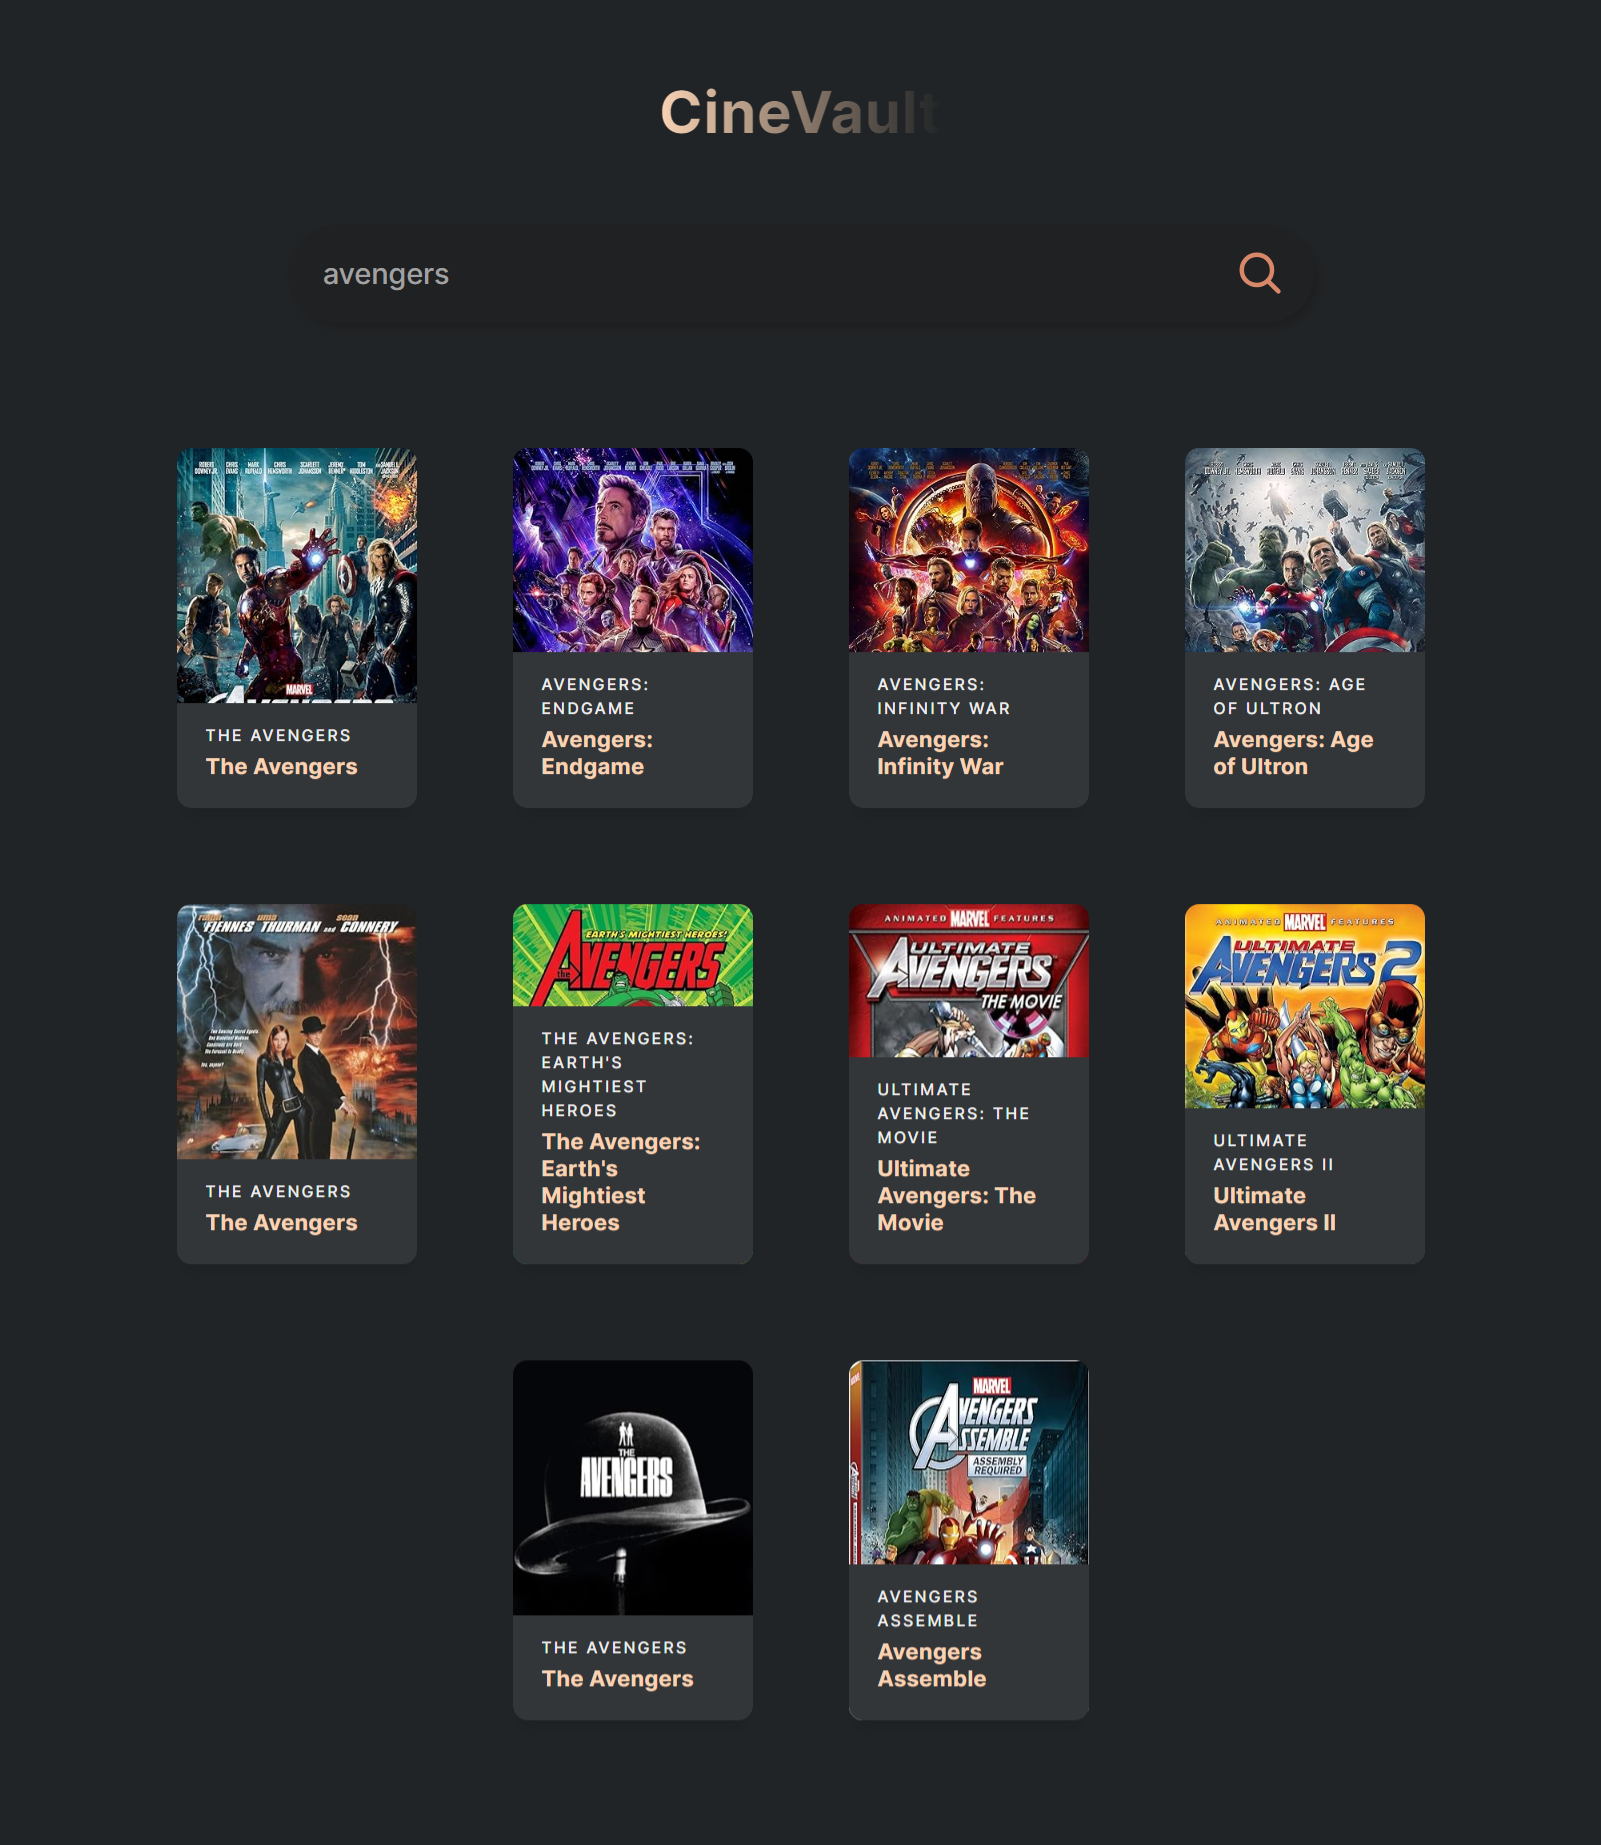
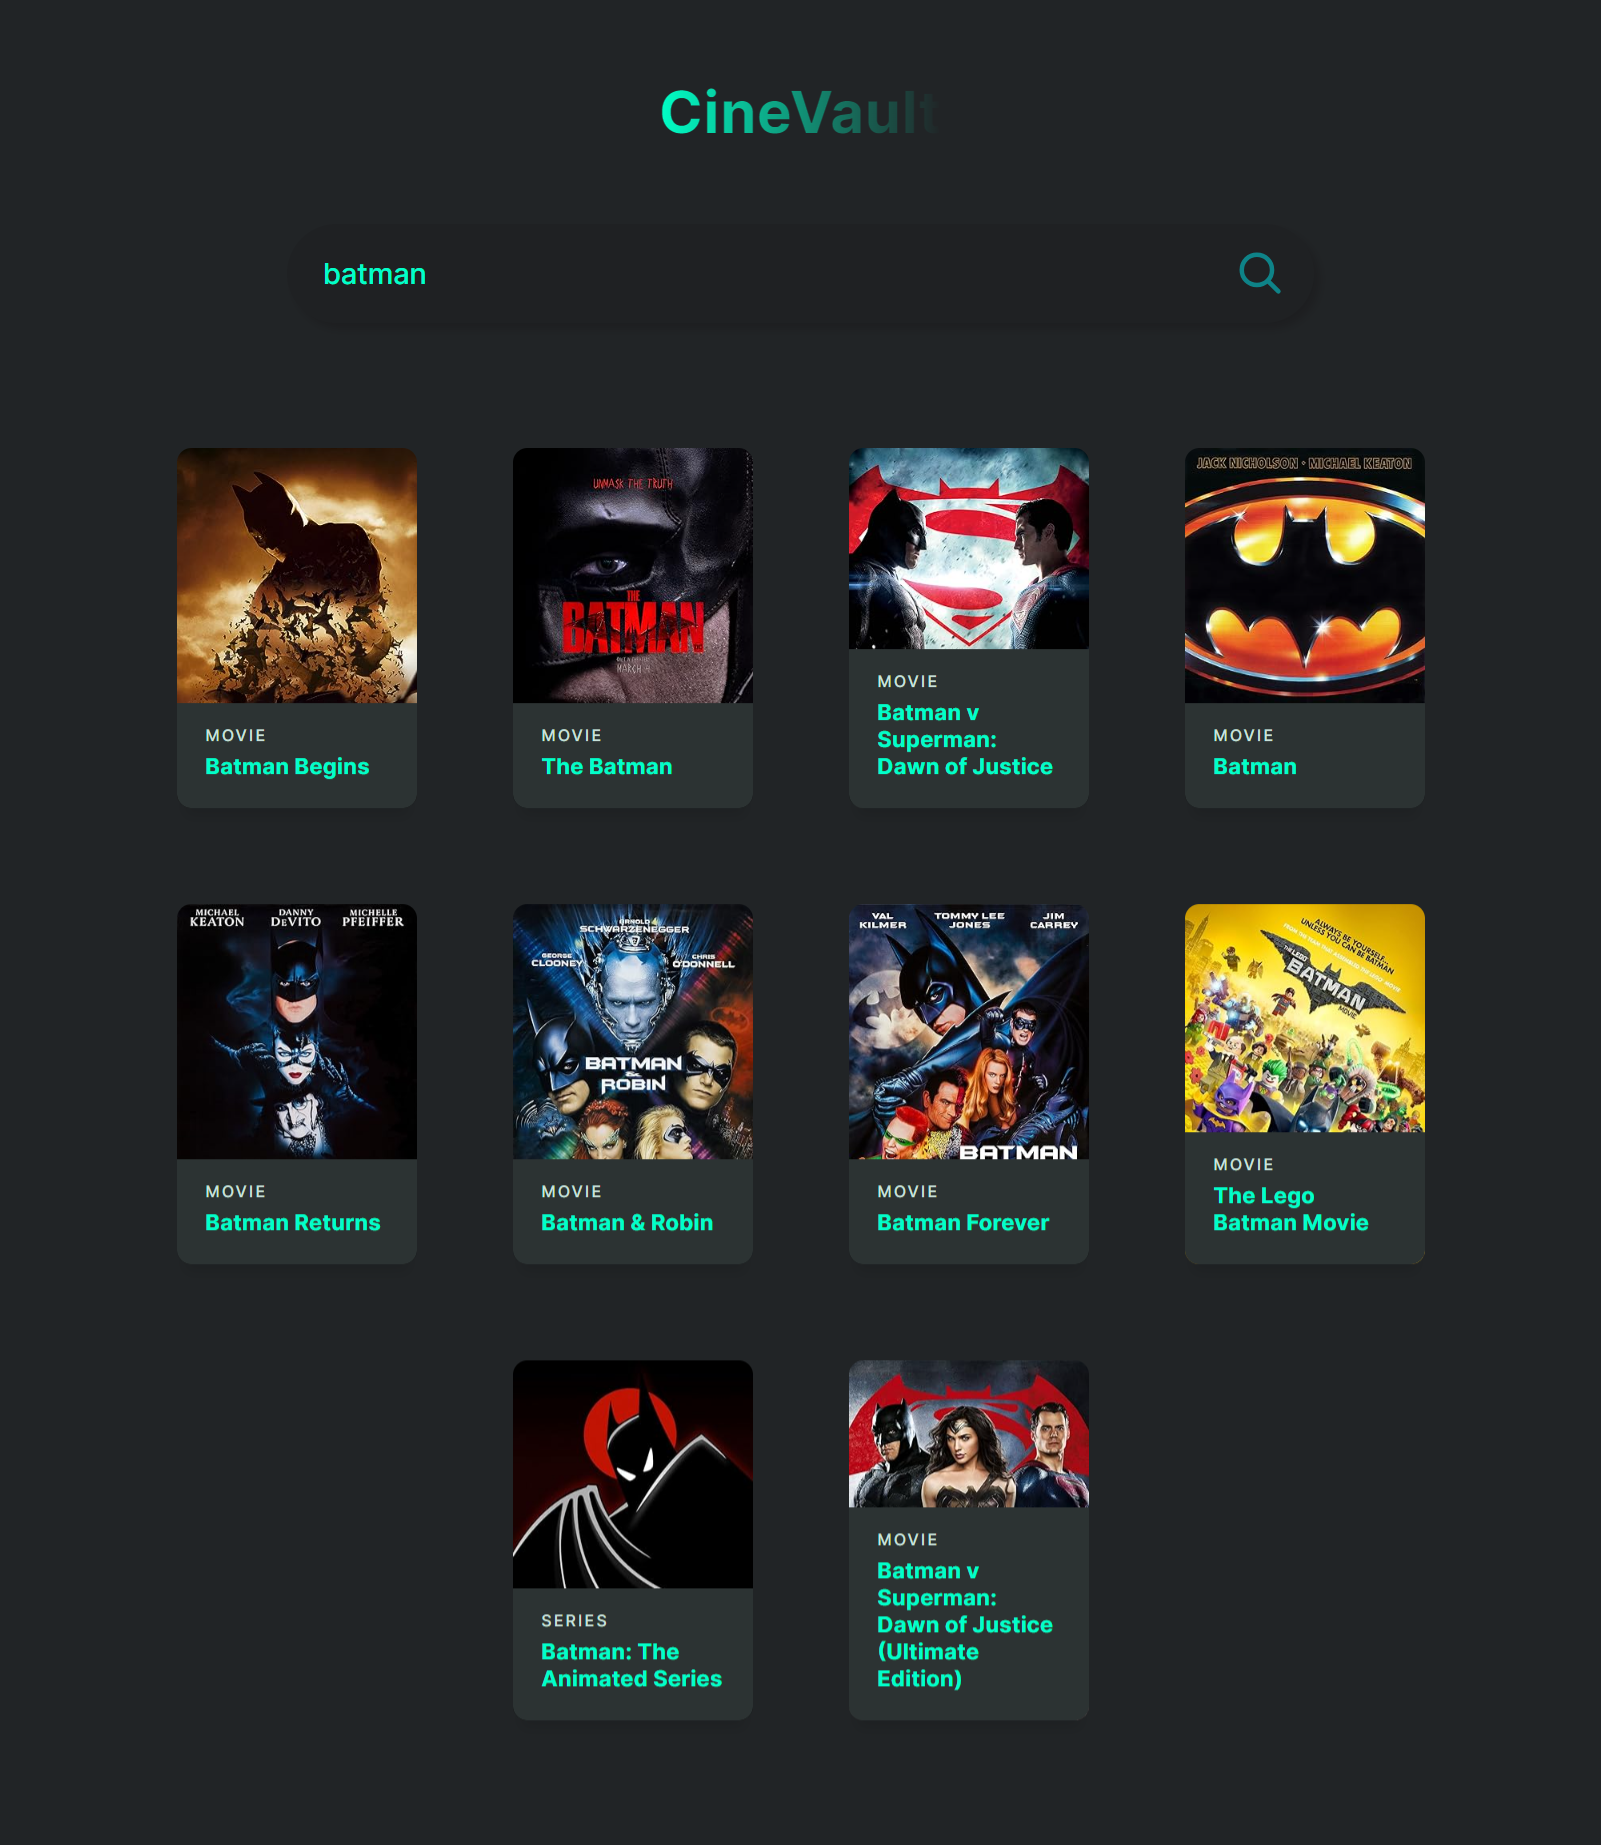
feat: update Readme file

diff --git a/src/App.css b/src/App.css
@@ -16,7 +16,7 @@
 
 body {
   font-family: var(--font-roboto);
-  background-color: hsl(204, 7%, 14%);
+  background-color: #212426;
 }
 
 .app {
@@ -31,11 +31,7 @@ body {
 h1 {
   font-size: 3rem;
   letter-spacing: 0.9px;
-  background: linear-gradient(
-    90deg,
-    hsl(27, 85%, 84%) 0%,
-    hsla(27, 85%, 84%, 0) 100%
-  );
+  background: linear-gradient(90deg, #00ffc6 0%, #00ffc600 100%);
   background-clip: text;
   -webkit-background-clip: text;
   -webkit-text-fill-color: transparent;
@@ -52,10 +48,9 @@ h1 {
 
   padding: 1.5rem 1.75rem;
   border-radius: 3rem;
-  background: hsl(210, 6%, 13%);
-  -webkit-box-shadow: 5px 5px 7px hsl(220, 5%, 12%),
-    -5px -5px 7px hsl(204, 7%, 14%);
-  box-shadow: 5px 5px 7px hsl(220, 5%, 12%), -5px -5px 7px hsl(204, 7%, 14%);
+  background: #1f2123;
+  -webkit-box-shadow: 5px 5px 7px #1d1e20, -5px -5px 7px #212426;
+  box-shadow: 5px 5px 7px #1d1e20, -5px -5px 7px #212426;
 }
 
 .search input {
@@ -67,8 +62,8 @@ h1 {
   padding-right: 1rem;
 
   outline: none;
-  color: hsl(0, 0%, 63%);
-  background: hsl(210, 6%, 13%);
+  color: #00ffca;
+  background: #1f2123;
 }
 
 .search img {
@@ -104,7 +99,7 @@ h1 {
 
 .empty h2 {
   font-size: 1.25rem;
-  color: hsl(27, 85%, 84%);
+  color: #00ffc6;
   font-family: var(--font-raleway);
 }
 
@@ -131,7 +126,7 @@ h1 {
   border: none;
 
   transition: all 0.4s cubic-bezier(0.175, 0.885, 0, 1);
-  box-shadow: 0px 13px 10px -7px hsla(0, 0%, 0%, 0.1);
+  box-shadow: 0px 13px 10px -7px #0000001a;
 }
 
 .movie div:nth-of-type(1) {
@@ -140,11 +135,11 @@ h1 {
   width: 100%;
   opacity: 0;
   top: 0;
-  color: hsl(27, 85%, 84%);
+  color: #247881;
 }
 
 .movie:hover {
-  box-shadow: 0px 30px 18px -8px hsla(0, 0%, 0%, 0.1);
+  box-shadow: 0px 30px 18px -8px #0000001a;
   transform: scale(1.05, 1.05);
 }
 
@@ -160,7 +155,7 @@ h1 {
 
 .movie div:nth-of-type(3) {
   z-index: 2;
-  background-color: hsl(204, 5%, 21%);
+  background-color: #2c3333;
   padding: 16px 24px 24px 24px;
 
   position: absolute;
@@ -175,13 +170,13 @@ h1 {
   font-size: 13px;
   letter-spacing: 2px;
   font-weight: 500;
-  color: hsl(0, 0%, 94%);
+  color: #cbe4de;
 }
 
 .movie div:nth-of-type(3) h3 {
   margin-top: 5px;
   font-family: "Inter", serif;
-  color: hsl(27, 85%, 84%);
+  color: #00ffca;
 }
 
 .movie:hover div:nth-of-type(2) {

diff --git a/src/App.js b/src/App.js
@@ -44,7 +44,7 @@ const App = () => {
           ))}
         </div>
       ) : (
-        <div className="container">
+        <div className="empty">
           <h2>
             Type in the Search box and hit{" "}
             <img width={20} height={20} src={SearchIcon} alt="search" />

diff --git a/src/Components/MovieCard.jsx b/src/Components/MovieCard.jsx
@@ -18,7 +18,7 @@ const MovieCard = ({ movie }) => {
       </div>
 
       <div>
-        <span>{movie.Title}</span>
+        <span>{movie.Type}</span>
         <h3>{movie.Title}</h3>
       </div>
     </div>
